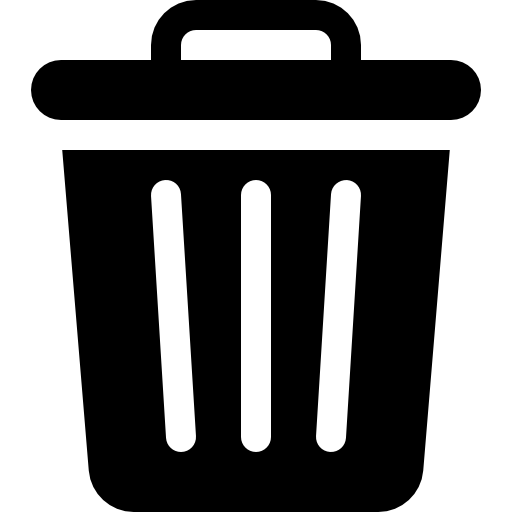
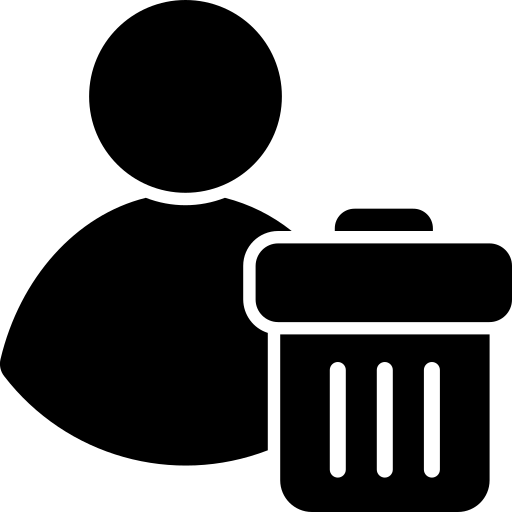
search students done

diff --git a/frontend/src/app/pages/add-student/add-student.ts b/frontend/src/app/pages/add-student/add-student.ts
@@ -1,6 +1,5 @@
-import { Component, OnInit } from '@angular/core';
+import { Component, ElementRef, OnInit, ViewChild } from '@angular/core';
 import { MatCardModule } from '@angular/material/card';
-import { BehaviorSubject } from 'rxjs';
 import { MatFormFieldModule } from '@angular/material/form-field';
 import { MatSelectModule } from '@angular/material/select';
 import { AddStudentFormService } from '@app/services/add-student-form/add-student-form';
@@ -12,6 +11,7 @@ import { User } from '@common/user';
 import { CommonModule } from '@angular/common';
 import { MatInputModule } from '@angular/material/input';
 import { MatButtonModule } from '@angular/material/button';
+import removeAccents from 'remove-accents';
 
 @Component({
   selector: 'app-add-student',
@@ -29,38 +29,114 @@ import { MatButtonModule } from '@angular/material/button';
   styleUrls: ['./add-student.scss'],
 })
 export class AddStudentPage implements OnInit {
+  @ViewChild('searchInput') searchInput!: ElementRef<HTMLInputElement>;
+
   form!: FormGroup;
   programs: ReducedProgram[] = [];
   directors: User[] = [];
   coDirectors: User[] = [];
-  submitting = false;
-
-  protected readonly allStudents = new BehaviorSubject<Map<string, string>>(new Map());
-  allStudents$ = this.allStudents.asObservable();
-
-  private allStudentsOriginal = new Map<string, string>();
-  selectedProgramId: string | null = null;
+  students: User[] = [];
+  studentsOriginal: User[] = [];
+  isSubmitting = false;
+  selectedStudentId: string | null = null;
 
   constructor(
     private formService: AddStudentFormService,
     private apiService: ApiService,
     private readonly activatedRoute: ActivatedRoute
-  ) {
-    this.apiService.getAllPrograms().subscribe((reducedPrograms: ReducedProgram[]) => {
-      this.programs = reducedPrograms;
-    });
+  ) {}
 
-    this.apiService.getStudentsWithUnsubmittedPlans().subscribe((students) => {
-      console.log(students);
-    });
+  ngOnInit(): void {
     const dirAndCoor = this.activatedRoute.snapshot.data['dirAndCoor'] || {};
     this.directors = dirAndCoor.directors || [];
     this.coDirectors = dirAndCoor.coDirectors || [];
+    this.form = this.formService.buildForm();
+    this.updateStudentsList();
+    this.getPrograms();
+    this.getDirectorsAndCodirectors();
   }
 
-  ngOnInit(): void {
-    this.form = this.formService.buildForm();
+  selectStudent(studentId: string): void {
+    this.selectedStudentId = studentId;
+  }
 
+  onSubmit(): void {
+    if (this.form.invalid) return;
+    this.isSubmitting = true;
+
+    this.apiService.createStudent(this.form.value).subscribe({
+      next: (user) => {
+        if (!user) {
+          console.error("L'étudiant existe déjà");
+          this.isSubmitting = false;
+          return;
+        }
+        this.form.reset();
+        this.isSubmitting = false;
+        this.selectedStudentId = null;
+        this.searchInput.nativeElement.value = '';
+        this.updateStudentsList();
+      },
+      error: (err) => {
+        console.error(err);
+        this.isSubmitting = false;
+      },
+    });
+  }
+
+  onSearch(event: string): void {
+    const search = removeAccents(event.trim().toLowerCase());
+    if (!search) {
+      this.students = this.studentsOriginal;
+      return;
+    }
+
+    this.students = this.studentsOriginal.filter((student) => {
+      const firstName = student.firstName.toLowerCase() || '';
+      const lastName = student.lastName.toLowerCase() || '';
+      return removeAccents(firstName).includes(search) || removeAccents(lastName).includes(search);
+    });
+
+    const stillVisible = this.students.some((student) => student._id === this.selectedStudentId);
+    if (!stillVisible) {
+      this.selectedStudentId = null;
+    }
+  }
+
+  onDelete(): void {
+    if (this.selectedStudentId) {
+      this.apiService.deleteUser(this.selectedStudentId).subscribe({
+        next: (response) => {
+          if (response.success) {
+            this.selectedStudentId = null;
+            this.searchInput.nativeElement.value = '';
+            this.updateStudentsList();
+          }
+        },
+        error: (err) => {
+          console.error('Erreur suppression étudiant', err);
+          this.selectedStudentId = null;
+          this.searchInput.nativeElement.value = '';
+          this.updateStudentsList();
+        },
+      });
+    }
+  }
+
+  private updateStudentsList(): void {
+    this.apiService.getStudentsWithUnsubmittedPlans().subscribe((students) => {
+      this.students = students;
+      this.studentsOriginal = students;
+    });
+  }
+
+  private getPrograms(): void {
+    this.apiService.getAllPrograms().subscribe((reducedPrograms: ReducedProgram[]) => {
+      this.programs = reducedPrograms;
+    });
+  }
+
+  private getDirectorsAndCodirectors(): void {
     this.apiService.getDirectorsAndCoordinators().subscribe({
       next: (users) => {
         this.directors = users.directors;
@@ -68,55 +144,5 @@ export class AddStudentPage implements OnInit {
       },
       error: (err) => console.error('Erreur chargement directeurs', err),
     });
-  }
-
-  onSubmit(): void {
-    if (this.form.invalid) return;
-    this.submitting = true;
-
-    this.apiService.createStudent(this.form.value).subscribe({
-      next: (user) => {
-        if (!user) {
-          console.error("L'étudiant existe déjà");
-          this.submitting = false;
-          return;
-        }
-        this.form.reset();
-        this.submitting = false;
-      },
-      error: (err) => {
-        console.error(err);
-        this.submitting = false;
-      },
-    });
-  }
-
-  onSearch(event: string): void {
-    /*const search = removeAccents(event.trim().toLowerCase());
-    if (!search) {
-      this.allPrograms.next(new Map(this.allProgramsOriginal));
-      return;
-    }
-    const filteredPrograms = new Map(
-      [...this.allProgramsOriginal].filter(([_, program]) =>
-        removeAccents(program.toLowerCase()).includes(search)
-      )
-    );
-    this.allPrograms.next(filteredPrograms);*/
-  }
-
-  selectProgram(programId: string): void {
-    /*this.isCreatingNew = false;
-    const switchingProgram = this.selectedProgramId && this.selectedProgramId !== programId;
-
-    if (switchingProgram && this.isEditing && this.hasUnsavedChanges()) {
-      this.confirmExit().then((ok) => {
-        if (!ok) return;
-        this.exitEdit();
-        this.finishSelectProgram(programId);
-      });
-      return;
-    }
-    this.finishSelectProgram(programId);*/
   }
 }

diff --git a/frontend/src/app/pages/add-student/add-student.html b/frontend/src/app/pages/add-student/add-student.html
@@ -1,26 +1,29 @@
 <div class="add-student-container">
   <div class="container-left">
     <div class="left-header">
-      <div class="header-search-program">
+      <div class="header-search-student">
         <input
+          #searchInput
           type="text"
-          placeholder="Rechercher un étudiant..."
+          placeholder="Rechercher un étudiant par nom ou prénom..."
           (input)="onSearch($event.target.value)"
+          [ngStyle]="{ width: selectedStudentId ? '80%' : '100%' }"
         />
+      </div>
+      <div class="header-delete-student" *ngIf="selectedStudentId" (click)="onDelete()">
+        <img src="./../../../assets/image_delete.png" alt="" />
       </div>
     </div>
     <div class="student-list">
       <div
-        *ngFor="let option of allStudents$ | async | keyvalue"
+        *ngFor="let student of students"
         class="student-item"
-        [class.selected]="selectedProgramId === option.key"
-        (click)="selectProgram(option.key)"
+        [class.selected]="selectedStudentId === student._id"
+        (click)="selectStudent(student._id)"
       >
-        {{ option.value }}
+        {{ student.firstName }} - {{ student.lastName }} - {{ student.departement }}
       </div>
-      <p class="no-student-message" *ngIf="allStudents.getValue().size === 0">
-        Aucun étudiant trouvé
-      </p>
+      <p class="no-student-message" *ngIf="students.length === 0">Aucun étudiant trouvé</p>
     </div>
   </div>
   <div class="container-right">
@@ -81,9 +84,9 @@
               mat-flat-button
               color="primary"
               type="submit"
-              [disabled]="form.invalid || submitting"
+              [disabled]="form.invalid || isSubmitting"
             >
-              {{ submitting ? 'Envoi…' : 'Créer' }}
+              {{ isSubmitting ? 'Envoi…' : 'Créer' }}
             </button>
           </mat-card-actions>
         </mat-card-content>

diff --git a/frontend/src/app/pages/add-student/add-student.scss b/frontend/src/app/pages/add-student/add-student.scss
@@ -32,7 +32,7 @@
   border-radius: 10px;
 }
 
-.header-search-program {
+.header-search-student {
   display: flex;
   width: 100%;
   height: 100%;
@@ -48,6 +48,26 @@ input {
   padding: 0.5rem 0.5rem;
   font-size: 1rem;
   box-sizing: border-box;
+}
+
+.header-delete-student {
+  display: flex;
+  align-items: center;
+  justify-content: center;
+  cursor: pointer;
+}
+
+.header-delete-student img {
+  width: 35px;
+  height: 35px;
+}
+
+.header-delete-student:hover {
+  transform: scale(1.1);
+}
+
+.header-delete-student:active {
+  transform: scale(0.8);
 }
 
 .student-list {
